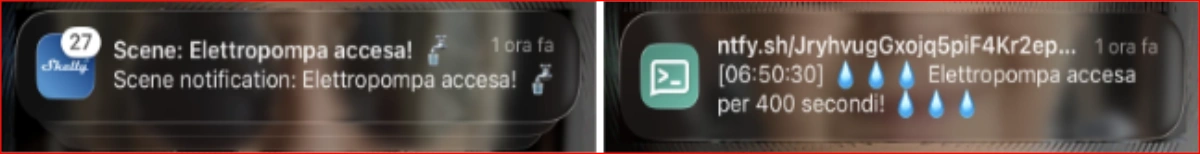
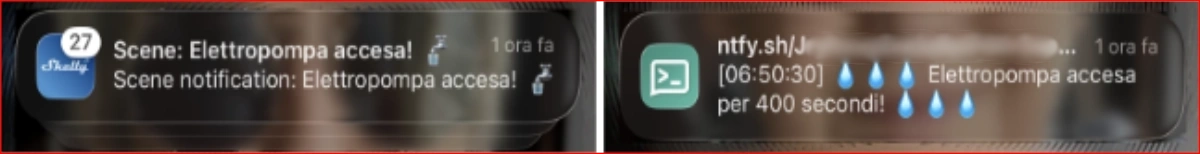
aggiusti

Changed region(s): [[0.6475, 0.2338, 0.8942, 0.3896]]

diff --git a/_posts/2026-07-14-tre-shelly-una-pompa-60-metri.md b/_posts/2026-07-14-tre-shelly-una-pompa-60-metri.md
@@ -113,7 +113,7 @@ Ho una prova visiva perfetta di quanto fosse reale il problema:
 
 La soluzione — un **filtro temporale** (una sorta di *debounce*) — l'ho implementata più avanti, ma il problema è nato qui.
 
-> 📐 *Il dettaglio dei 60 metri di distanza e degli 8 metri di dislivello* l'abbiamo visti nello [schema iniziale ↑](#1-il-problema-in-poche-righe): sono il motivo per cui non bastava un cavo, e serviva la radio.
+> 📐 *Il dettaglio dei 60 metri di distanza e degli 8 metri di dislivello* l'abbiamo visto nello [schema iniziale ↑](#1-il-problema-in-poche-righe): sono il motivo per cui non bastava un cavo, serviva la radio.
 
 Fu qui che si presentò un (per me) mistero tecnico che ancora oggi non so spiegarmi del tutto: la **tensione anomala sul sensore**. Ne parlo apertamente più avanti, nella sezione dedicata alla correttezza sugli aspetti tecnici, perché merita chiarezza.
 
@@ -143,7 +143,7 @@ Fin qui, una bussola perfetta. Mi ha dato la fiducia per cominciare, e non è po
 
 Il guaio è arrivato con i dettagli. Mistral scriveva codice con grande sicurezza, usando comandi dal nome plausibile, elegante, convincente… ma talvolta, purtroppo per me, **inventato**. Funzioni che non esistevano nell'API degli Shelly, chiamate a metodi dai nomi verosimili ma senza alcun riscontro nella documentazione reale.
 
-Il momento che ricordo meglio è un **errore ricorsivo**. Seguivo le sue indicazioni, lanciavo il codice, e il dispositivo rispondeva con l'equivalente di un "*questa cosa non esiste*". All'inizio pensavo di aver sbagliato *io* a copiare. Poi, dopo il terzo o quarto tentativo, ho capito: non stavo sbagliando io. **Il comando non esisteva proprio.** L'AI lo aveva costruito per assonanza, per "buon senso" statistico, ma senza verificarlo — perché non poteva verificarlo e me lo riproponeva in varie salse ma sempre inefficace, insistendo nel reiterare l'errore.
+Il momento che ricordo meglio è un **errore ricorsivo**. Seguivo le sue indicazioni, lanciavo il codice, e il dispositivo rispondeva con l'equivalente di un "*questa cosa non esiste*". All'inizio pensavo di aver *sbagliato io* a copiare. Poi, dopo il terzo o quarto tentativo, ho capito: non stavo sbagliando io. **Quel comando non esisteva proprio.** L'AI lo aveva costruito per assonanza, per "*buon senso*" statistico, ma senza verificarlo — perché non poteva verificarlo e me lo riproponeva in varie salse ma sempre inefficace, insistendo nel reiterare l'errore.
 
 <details markdown="1">
 <summary><strong>🧭 Cosa stava succedendo, in realtà</strong> (clicca)</summary>
@@ -152,10 +152,9 @@ Il momento che ricordo meglio è un **errore ricorsivo**. Seguivo le sue indicaz
 
 Quello che ho sperimentato ha un nome: le AI generative possono produrre **"allucinazioni"** — informazioni presentate con sicurezza ma non corrispondenti alla realtà. Con il codice questo si manifesta in modo particolarmente insidioso: il nome di una funzione *sembra* giusto, la sintassi è perfetta, tutto è plausibile… ma quel comando non è mai esistito nell'API di quel dispositivo.
 
-Non è "colpa" del modello nel senso che intendiamo noi: un'AI linguistica completa il testo in base a ciò che è *più probabile*, non a ciò che ha *verificato*. Se in migliaia di esempi di codice esiste una certa funzione, il modello tenderà a proporla anche per un dispositivo che, magari, usa per essa un nome del tutto diverso.
+Non è "colpa" del modello nel senso che intendiamo noi: un'AI linguistica completa il testo in base a ciò che è *più probabile*, non a ciò che ha *verificato*. Se in migliaia di esempi di codice esiste una certa funzione, il modello tenderà a proporla anche per un dispositivo che, magari, usa per essa un comando del tutto diverso.
 
 **La lezione, quella vera:** l'AI è uno strumento straordinario per *iniziare*, per avere una direzione, per non sentirsi persi. Ma **la verifica sulla documentazione ufficiale spetta sempre all'essere umano.** La bussola indica il nord; sta a te controllare se davanti c'è un ponte o un burrone.
-
 </details>
 
 ### Cosa mi ha lasciato Mistral
@@ -163,7 +162,7 @@ Non è "colpa" del modello nel senso che intendiamo noi: un'AI linguistica compl
 Sarebbe ingiusto liquidare questa fase come "tempo perso". Non lo è stata affatto:
 
 - mi ha dato **l'architettura mentale** del progetto (trasmittente / ricevente / script) che si è rivelata corretta e mi ha accompagnato fino alla fine;
-- mi ha insegnato, a mie spese, la **lezione più importante di tutte**: fidarsi della direzione, ma **verificare ogni singolo comando** sulla documentazione reale;
+- mi ha insegnato, a mie spese, la **lezione più importante di tutte**: fidarsi della direzione, ma, nei casi dubbi, **verificare di persona ogni singolo comando** sulla documentazione ufficiale;
 - mi ha tolto la paura di cominciare.
 
 > 🧭 *Morale della tappa:* **l'AI ti dice dove andare, non sempre come arrivarci. Il "come" va verificato, passo per passo, sul campo**.
@@ -180,7 +179,7 @@ Questa è stata la fase più lunga e, a tratti, più frustrante. Molti tentativi
 
 Il primo traguardo concreto è stato riuscire a mandare *fisicamente* un pacchetto di byte da 1T a 1R attraverso l'Add-on LoRa. Non un comando immaginario, ma la funzione reale che gli Shelly mettono a disposizione per scrivere sul modulo radio. Quando nel log di 1R è comparso il primo messaggio arrivato via radio da 1T, ho avuto la prima, autentica grande soddisfazione dall'avvio del progetto.
 
-**Funzionava!** I due dispositivi si *parlavano*, senza WiFi, attraverso 60 metri d'aria.
+**Funzionava!** I due dispositivi *si parlavano*, senza WiFi, attraverso 60 metri d'aria.
 
 > 🔧 *Le prove al tavolo, con una lampada al posto della pompa (fatelo anche voi!):* **[Guida tecnica → Passo 1]({{ site.baseurl }}/guida-tecnica-pompa-shelly-lora/#guida-tecnica)**
 
@@ -196,7 +195,6 @@ Risolto il "come parlare", è arrivato il momento di affrontare il problema dell
 Il termine ***debounce*** ("anti-rimbalzo") viene dall'elettronica dei pulsanti: quando premi un tasto, i contatti metallici "*rimbalzano*" per pochi millisecondi, generando decine di aperture/chiusure invece di una sola. La soluzione classica è **ignorare i cambiamenti troppo ravvicinati nel tempo**, considerando valido solo il primo di una raffica.
 
 Nel nostro caso il "*rimbalzo*" non è meccanico ma **idraulico**: è l'acqua che oscilla. Ma il principio è identico: *un evento vero, non tanti falsi*.
-
 </details>
 
 ### I vicoli ciechi: strade imboccate e abbandonate
@@ -213,7 +211,7 @@ Ogni vicolo cieco ha lasciato un insegnamento: mi ha costretto a chiarire, un re
 
 C'è un episodio che merita un posto d'onore, perché è il momento in cui ho toccato con mano che **anche il muratore può sbagliare nel tirare su i muri**.
 
-A un certo punto, discutendo di come poter migliorare la portata del segnale, Gemini mi aveva spiegato con dovizia di particolari come **svitare l'antenna** del LoRa Add-on per sostituirla con una esterna più performante, montata su connettore SMA. Indicazioni precise, sicure, dettagliate, *completamente sbagliate*!
+A un certo punto, indagando su come poter migliorare la portata del segnale, Gemini mi aveva spiegato con dovizia di particolari come **svitare l'antenna** del LoRa Add-on per sostituirla con una esterna più performante, montata su connettore SMA. Indicazioni precise, sicure, dettagliate, *completamente sbagliate*!
 
 Il mio modello di LoRa Add-on **non ha alcun connettore SMA**: l'antenna è un filo **integrato e non rimovibile**, con tanto di avvertenza stampata *"Do not remove the antenna tip"*. Solo la versione **Pro** ha il connettore per l'antenna esterna. Se avessi seguito alla lettera quelle istruzioni con la stessa disinvoltura ingenua dei primi tempi, avrei rischiato di **danneggiare irreparabilmente** il dispositivo.
 
@@ -231,26 +229,25 @@ Per fortuna, la lezione di Mistral aveva già fatto scuola: prima di mettere le 
 | Portata | Adeguata a distanze medie (come i miei 60 m) | Estendibile con antenne dedicate |
 
 **Morale:** quando un'AI ti dà istruzioni che comportano un intervento fisico e potenzialmente distruttivo sull'hardware, la verifica sulla documentazione ufficiale non è un optional, è **obbligatoria**! Un conto è un comando software sbagliato (dà errore e via), un altro è svitare e rimuovere un componente integrato nel dispositivo.
-
 </details>
 
 ### Cosa mi ha lasciato Gemini
 
 Con l'utilizzo di Gemini il sistema ha "imparato" a **trasmettere davvero** via LoRa, è nato il **filtro anti-oscillazione**, ho ripulito il progetto da tre **vicoli ciechi** (Cloud, Scene, Telegram) e ho ricevuto una conferma bruciante della lezione di fondo: **verificare sempre**, soprattutto quando c'è di mezzo l'hardware.
 
-> 🧱 *Morale della tappa:* **costruire significa anche sbagliare e rifare. I vicoli ciechi non sono tempo perso: sono il modo in cui capisci davvero cosa ti serve — e cosa no.**
+> 🧱 *Morale della tappa:* **costruire significa anche sbagliare e rifare.** *I vicoli ciechi non sono tempo perso: sono il modo in cui capisci davvero cosa ti serve — e cosa no.*
 
 ---
 
 ## 5. Claude, il rifinitore: dalla cosa che "funziona" alla cosa di cui ti fidi
 
-Ero arrivato a Claude per gradi — quasi per tentativi successivi — ed era una scelta ormai consapevole. Dopo Mistral e Gemini, avevo capito che non stavo solo cercando di risolvere un problema idraulico: stavo *esplorando un metodo*. La domanda vera, ormai, era diventata questa: **fino a dove può arrivare una persona non esperta come me, se si fa affiancare bene dall'AI?**
+Ero arrivato a Claude per gradi — per tentativi successivi con altre AI per valutarne le caratteristiche — ed era diventata una scelta ormai consapevole. Dopo il lavoro portato avanti con Mistral e Gemini, avevo capito che non stavo più solo cercando di risolvere un problema idraulico: stavo *esplorando un metodo*. La domanda vera, ormai, era diventata questa: **fino a dove può arrivare una persona non esperta come me, se si fa affiancare bene dall'AI?**
 
-A quel punto il sistema, grazie a Gemini, *funzionava*. Ma tra "*funziona sul banco*" e "*funziona con la pompa a 60 metri mentre fuori c'è un temporale e mi posso fidare*" c'è un abisso. Colmarlo è stato il lavoro di rifinitura — ed è la parte in cui il sistema è diventato **adulto**.
+A quel punto il sistema, grazie a Gemini, *funzionava*. Ma tra "*funziona sul banco*" e "*funziona con la pompa a 60 metri mentre fuori c'è un temporale e mi posso fidare*" c'è un abisso. Colmarlo è stato il lavoro di rifinitura — ed è la parte in cui il sistema con Claude è diventato **adulto**.
 
 ### Il problema della fiducia al buio
 
-Il punto debole era chiaro: 1T mandava il comando "accendi la pompa" a 1R… e poi? Come faceva 1T a *sapere* che la pompa si era davvero accesa? Il segnale radio poteva perdersi, degradarsi, arrivare corrotto. Un comando "sparato nel buio" senza conferma non è un sistema affidabile: è una speranza.
+Il punto debole era chiaro: 1T mandava il comando "accendi la pompa" a 1R… e poi? Come faceva 1T a *sapere* che la pompa si era davvero accesa? Il segnale radio poteva perdersi, degradarsi, arrivare corrotto. Un comando "sparato nel buio" senza conferma non è un sistema affidabile: è solo una speranza.
 
 ### 1) Il battito cardiaco: PING / PONG
 
@@ -290,9 +287,9 @@ Per sapere cosa succede senza guardare i log, il sistema mi "parla" sul telefono
 - 💧 **"Elettropompa accesa per 400 secondi!"** — tutto bene.
 - ⚠ **"Controllo corrente"** — qualcosa non va: 1R non risponde più.
 
-Il bello è che questa "voce" **non dipende dal WiFi del dispositivo lontano**: è 1T (che il WiFi ce l'ha) a parlare, riportando ciò che accade a 1R.
+Il bello è che questa "voce" **non dipende dal WiFi del dispositivo lontano**: è 1T (che il WiFi ce l'ha) a parlare, riportando ciò che accade a 1R (che non ha WiFi).
 
-### 5) Il fantasma nella radio: il glitch e le interferenze
+### 5) Il fantasma nella radio: il *glitch* e le interferenze
 
 In mezzo a migliaia di `PONG` puliti, ogni tanto nel log compare qualcosa del genere:
 
@@ -310,20 +307,19 @@ Un `PONG` **arrivato corrotto**: la radio ha ricevuto qualcosa, ma il messaggio 
 Una pompa è un **carico induttivo**: quando il relè la stacca, l'energia accumulata nell'avvolgimento genera un picco di tensione (una scintilla sui contatti) che disturba l'elettronica vicina e, potenzialmente, anche le comunicazioni radio.
 
 Per questo, su consiglio dell'AI, ho aggiunto uno **Shelly RC Snubber** montato **il più vicino possibile alla pompa**. Lo snubber (un gruppo resistenza + condensatore) "assorbe" quel picco, proteggendo il relè dello Shelly e riducendo i disturbi. È un piccolo componente da pochi euro che allunga la vita dell'impianto.
-
 </details>
 
 > 🔧 *Posizionamento dei dispositivi, orientamento delle antenne, snubber e accorgimenti radio:* **[Guida tecnica → Passi 7 e 8]({{ site.baseurl }}/guida-tecnica-pompa-shelly-lora/#guida-tecnica)**
 
 ### Perché il passaggio a Claude, e un doveroso chiarimento
 
-Sono arrivato a Claude alla fine di un percorso, sulla base dei risultati ottenuti. Man mano che il progetto diventava più articolato le risposte delle varie AI si dimostravano più o meno adeguate alle mie esigenze. È probabile che anche altre AI — dato il livello che ormai hanno raggiunto — avrebbero fornito ottimi risultati. Personalmente ho trovato Claude il più confacente alle mie esigenze ed al mio modo di ragionare. Altri potrebbero sia dissentire che trovare altre strade, ovviamente. Io ho fatto questa scelta e aggiungo ancora due cose.
+Come ho già detto, sono arrivato a Claude alla fine di un percorso, sulla base dei risultati ottenuti. Man mano che il progetto diventava più articolato le risposte delle varie AI si dimostravano più o meno adeguate alle mie esigenze. È probabile che anche altre AI — dato il livello che ormai hanno raggiunto — avrebbero fornito ottimi risultati. Personalmente ho trovato Claude il più confacente alle mie esigenze ed al mio modo di ragionare. Altri potrebbero sia dissentire che trovare altre strade, ovviamente. Io ho fatto questa scelta e aggiungo ancora due cose.
 
 **Primo: quasi tutto il progetto è stato realizzato con le versioni gratuite.** Mistral, Gemini e Claude li ho usati, per la maggior parte del lavoro, senza pagare nulla. È un punto che mi sta a cuore, perché sfata un mito: **per un progetto come questo non serve per forza spendere**. Le versioni gratuite mi hanno portato lontanissimo. Si paga con un po' di pazienza in quanto vi sono limiti alla quantità di dati (in invio come in ricezione) dei quali si può usufruire in una giornata.
 
-**Secondo: l'unico investimento — poche decine di euro — l'ho fatto solo per la revisione e l'affinamento degli script e per la preparazione e messa online di questo blog**, scegliendo **Claude Opus 4.8**. È stata una scelta del tutto personale, forse persino eccessiva per la mole di lavoro: ma l'ho trovato, *a mio insindacabile e personalissimo giudizio*, il modello più performante e più in sintonia con il mio stile di scrittura e le mie esigenze di racconto. Mi sono persuaso che, sapendo porre le domande giuste ed esponendo con chiarezza e dettagli adeguati le proprie necessità, Opus 4.8 e ancor più Fable (che ho provato brevemente) mi avrebbero aiutato a raggiungere il mio obiettivo molto più efficacemente delle altre AI. Non è una classifica né una pubblicità: è solo il racconto della mia esperienza, con tutti i suoi limiti.
+**Secondo: l'unico investimento — poche decine di euro — l'ho fatto solo per la revisione e l'affinamento degli script e per la preparazione e messa online di questo blog**, scegliendo **Claude Opus 4.8**. È stata una scelta del tutto personale, forse persino eccessiva per la mole di lavoro: ma l'ho trovato, *a mio insindacabile e personalissimo giudizio*, il modello più performante e più in sintonia con il mio stile di scrittura e le mie esigenze di racconto. Mi sono persuaso che, sapendo porre le domande giuste ed esponendo con chiarezza e dettagli adeguati le proprie necessità, Opus 4.8 e ancor più Fable (che ho provato brevemente appena uscito, con grande curiosità) mi avrebbero aiutato a raggiungere il mio obiettivo molto più efficacemente delle altre AI sperimentate sino ad allora. Non è una classifica né una pubblicità: è solo il racconto della mia esperienza, con tutti i suoi limiti.
 
-### Un'osservazione che vale tutto il progetto
+### Un'osservazione che per me vale tutto il progetto
 
 Devo dire una cosa che mi ha piacevolmente sorpreso. I miei **primi tentativi** di usare l'AI risalgono a quasi **due anni fa**, e all'epoca ne ero uscito piuttosto deluso: le risposte erano vaghe, il codice raramente stava in piedi, vi era ancora poca capacità di seguire un *ragionamento* lungo. Avevo quasi rinunciato all'idea che potessero essermi davvero utili e per un certo periodo non ero andato oltre.
 
@@ -331,7 +327,7 @@ Riprendere in mano questi strumenti oggi è stata una rivelazione. **Il migliora
 
 Ed è anche il motivo per cui ho voluto scrivere questo racconto: perché **l'accoppiata "persona non esperta + AI di supporto" è oggi realmente percorribile**, in un modo che fino a poco tempo fa non lo era affatto.
 
-> 🧩 *Morale della tappa:* **un sistema affidabile non è quello che non sbaglia mai, ma quello che sa accorgersi di aver sbagliato e sa reagire. Conferme, tentativi e allarmi non sono complicazioni: sono la differenza tra "funziona" e "mi fido".**
+> 🧩 *Morale della tappa:* **un sistema affidabile non è quello che non sbaglia mai, ma quello strutturato per accorgersi dell'errore e reagire. Conferme, tentativi e allarmi non sono complicazioni: sono la differenza tra "funziona" e "mi fido".**
 
 ---
 
@@ -339,7 +335,7 @@ Ed è anche il motivo per cui ho voluto scrivere questo racconto: perché **l'ac
 
 Una AI può anche scrivere il codice più elegante del mondo, ma è solo **la realtà** a dirti se un sistema funziona. E la realtà, come spesso accade, è arrivata senza preavviso, sotto forma di un temporale.
 
-Racconto questo episodio perché è il momento in cui il sistema ha affrontato un guasto - vero, imprevisto, serio e prolungato — e si è comportato **esattamente** come avevo ipotizzato dovesse funzionare. Non perché non sia successo nulla di male: al contrario, si è rotta la pompa. Ma perché il sistema **se n'è accorto, ha avvisato tramite notifiche sul cellulare, e non ha fatto danni**.
+Racconto questo episodio perché è il momento in cui il sistema ha affrontato un guasto - vero, imprevisto, serio e prolungato — e si è comportato **esattamente** come avevo ipotizzato dovesse funzionare. Non perché non sia successo nulla di male: al contrario, si è rotta la pompa. Ma perché il sistema **se n'è accorto, ha avvisato tramite notifiche sul cellulare, e ha evitato danni maggiori**.
 
 ### La quiete prima
 
@@ -349,7 +345,7 @@ Per giorni, il log scorre tranquillo. Ogni 30 minuti, il battito. Ogni tanto una
 
 Poi, probabilmente in concomitanza con un temporale, **l'elettropompa subisce un guasto** e comincia a disperdere corrente. Il **magnetotermico** della linea — che serve proprio a questo — scatta e toglie alimentazione alla pompa *e* a 1R.
 
-Da un istante all'altro, 1R è muto! Il sistema, puntuale, se ne accorge:
+Da un istante all'altro, 1R è muto! Il sistema, puntuale, registra:
 
 ```
 HEARTBEAT: invio PING a 1R...
@@ -394,9 +390,9 @@ Il sistema **si ricorda del comando che aveva messo in attesa** e lo esegue. Da 
 
 Questa è stata, per me, la vera **prova del fuoco del progetto** — anzi, dell'acqua. E la lezione è doppia:
 
-1. **Un buon sistema non impedisce i guasti** (la pompa si è rotta comunque), ma trasforma un guasto silenzioso e potenzialmente ancora più dannoso in un evento **visibile e gestibile**. Senza il sistema di notifiche, avrei comunque scoperto il problema magari restando senza acqua in casa, chissà quando ma sicuramente nel momento peggiore: avete presente *sotto la doccia e insaponati*?. Con il sistema, l'ho saputo subito, con una notifica sul telefono.
+1. **Un buon sistema non impedisce i guasti** (la pompa si è rotta comunque), ma trasforma un guasto silenzioso e potenzialmente ancora più dannoso in un evento **visibile e gestibile**. Senza il sistema di notifiche, avrei comunque scoperto il problema, magari restando senza acqua in casa, chissà quando ma sicuramente nel momento peggiore: avete presente *sotto la doccia e insaponati*?. Con il sistema, l'ho saputo subito, con una notifica sul telefono.
 
-2. **La robustezza costruita con Claude non era teorica.** PING/PONG, tentativi, allarmi, comandi in attesa: ogni pezzo ha fatto la sua parte, in una situazione reale che non avevo pianificato.
+2. **La robustezza costruita con Claude non era ipotetica.** PING/PONG, tentativi, allarmi, comandi in attesa: ogni pezzo ha fatto la sua parte, in una situazione reale che non avevo pianificato.
 
 <details markdown="1">
 <summary><strong>🔍 Una piccola *imperfezione* che ho scelto di non "aggiustare"</strong> (clicca)</summary>
@@ -413,10 +409,9 @@ Ho ragionato su due possibili miglioramenti:
 **Ho deciso, per ora, di non implementare né l'una né l'altra.** Il motivo è semplice e, credo, saggio: il sistema, di fronte a un guasto vero e prolungato, si è comportato correttamente. Ha allarmato, non ha fatto danni, ha messo in attesa i comandi che non poteva eseguire, è ripartito da solo. La piccola imperfezione della prima ripartenza è un caso limite raro, dovuto a un evento del tutto particolare. **Considero il sistema sufficientemente robusto e affidabile così com'è**, e preferisco non aggiungere complessità che non serve. Le due idee restano "in cassaforte": le tirerò fuori solo se un caso analogo dovesse ripetersi.
 
 *(È anche un principio di buona ingegneria: non risolvere problemi che non hai davvero.)*
-
 </details>
 
-> 🔥 *Morale della tappa*: **il collaudo vero non lo decidi tu, lo decide la realtà**. E il momento in cui qualcosa si rompe è il momento in cui scopri se il tuo sistema è un guardiano affidabile o solo *un giocattolo che funziona col bel tempo*.
+> 🔥 *Morale della tappa*: **il collaudo vero non lo decidi tu, lo decide la realtà**. E il momento in cui qualcosa si rompe è il momento in cui *scopri se il tuo sistema è un guardiano affidabile o solo un giocattolo che funziona col bel tempo*.
 
 ---
 
@@ -462,9 +457,9 @@ Quello che posso dire con sicurezza è il risultato pratico:
 - nel **mio** impianto, il sensore **ha sempre funzionato correttamente**;
 - questo comportamento **non dipende dalla tensione di rete** (che nel mio caso è 240–245 V): l'Add-on è alimentato a bassa tensione e galvanicamente isolato.
 
-> ⚠ **Avviso al lettore.** Il funzionamento del sensore, nel mio caso, è sempre risultato corretto — ma va preso **"così com'è", senza alcuna garanzia** che si comporti allo stesso modo in ogni configurazione. I valori di tensione che ho misurato non coincidono del tutto con ciò che ci si aspetterebbe dalla documentazione, e non ho una spiegazione definitiva. Se replicate il progetto, **verificate le vostre misure** e, nel dubbio, consultate la documentazione ufficiale aggiornata di Shelly.
+> ⚠ **Avviso al lettore.** Il funzionamento del sensore, nel mio caso, è sempre risultato corretto — ma **va preso "così com'è", senza alcuna garanzia** che si comporti allo stesso modo in ogni configurazione. I valori di tensione che ho misurato non coincidono del tutto con ciò che ci si aspetterebbe dalla documentazione, e non ho una spiegazione definitiva. Se replicate il progetto, **verificate le vostre misure** e, nel dubbio, consultate la documentazione ufficiale aggiornata di Shelly.
 
-Preferisco chiudere questa sezione con un punto interrogativo piuttosto che con un punto fermo inventato. È, in fondo, la stessa lezione che l'AI mi ha insegnato fin dall'inizio: **meglio un** "***non lo so con certezza***" **verificabile che una sicurezza che non poggia su nulla**.
+Preferisco chiudere questa sezione con un punto interrogativo piuttosto che con un punto fermo inventato. È, in fondo, la stessa lezione che l'AI mi ha insegnato fin dall'inizio: **meglio un** "***non lo so con certezza***" **verificabile che una sicurezza che poggia sul nulla**.
 
 ---
 
